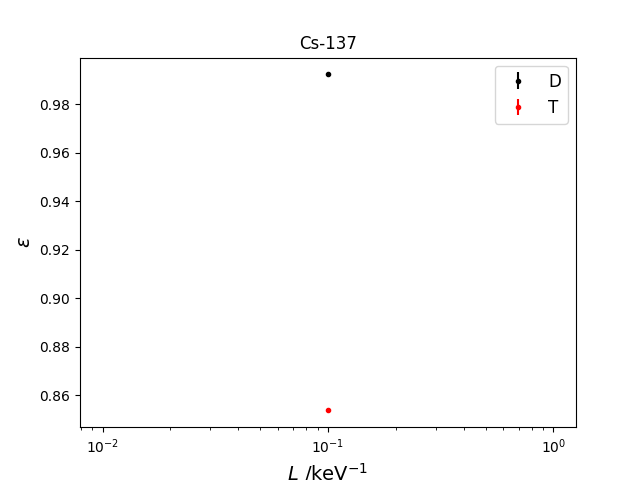
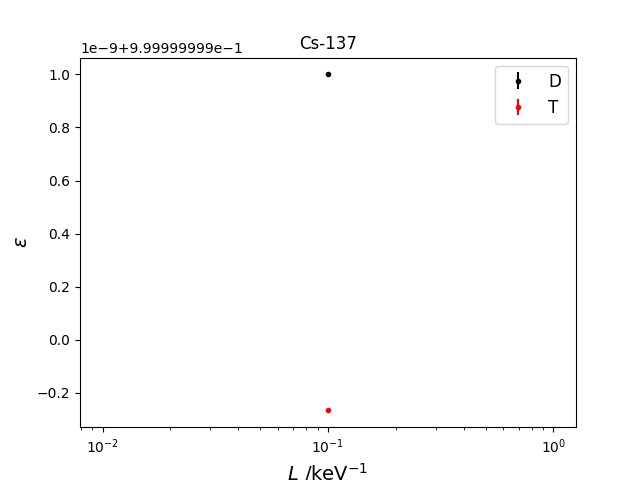
debugg l'erreur sur le traitement des ECs

diff --git a/MCTDCRcode/main_MCTDCR.py b/MCTDCRcode/main_MCTDCR.py
@@ -17,7 +17,7 @@ import scipy.stats as st
 
 ## INPUT OF THE MODEL
 N=1             # number of simulated decay (MC trials)
-Rad=["Fe-55"]       # list of radionuclides (Na-24)
+Rad=["Cs-137"]       # list of radionuclides (Na-24)
 pmf_1=[1]       # relative abondance (pmf)
 kB = 1e-5         # Birks constant in cm/keV
 L=[1e-1]
@@ -105,8 +105,10 @@ for L_i in L: # loop on the free parameter values
          # Scoring
          if transitionType[i_level+1][index_t] == "GA": # if it is a gamma that has been emitted
            particle_vec.append("gamma")               # Update of the particle vector
+           energy_vec.append(e_trans[i_level+1][index_t])    # Update the energy vector
          else:                                          # if not, it is a internal conversion, so an electron
            particle_vec.append("electron")               # !!!!!!!!! it is OK for our model? Does the electron leave with the kinetic enegy of the transition 
+           energy_vec.append(e_trans[i_level+1][index_t])    # Update the energy vector
            if transitionType[i_level+1][index_t] == "EK":
               particle_vec.append("Atom_K") # record that an electron is missing on the K shell of the dughter nucleus
               energy_vec.append(0)
@@ -125,7 +127,6 @@ for L_i in L: # loop on the free parameter values
            if transitionType[i_level+1][index_t] == "EN":
               particle_vec.append("Atom_N") # record that an electron is missing on the N shell of the dughter nucleus
               energy_vec.append(0)
-         energy_vec.append(e_trans[i_level+1][index_t])    # Update the energy vector
          e_sum += e_trans[i_level+1][index_t]              # Energy summary
 
          levelOftheDaughter = next_level[i_level+1][index_t]   # set the next level
